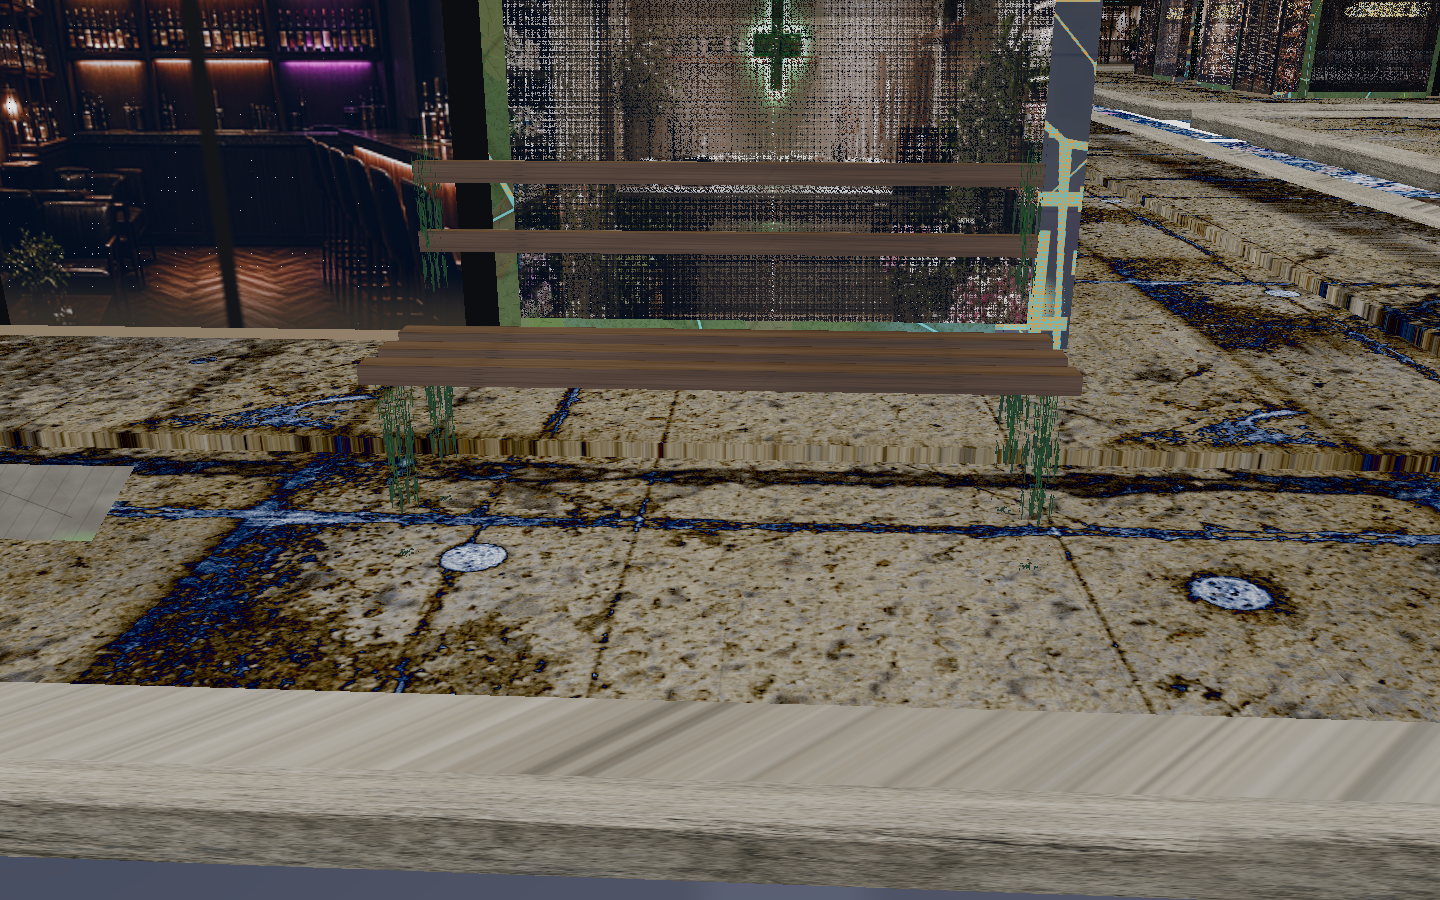
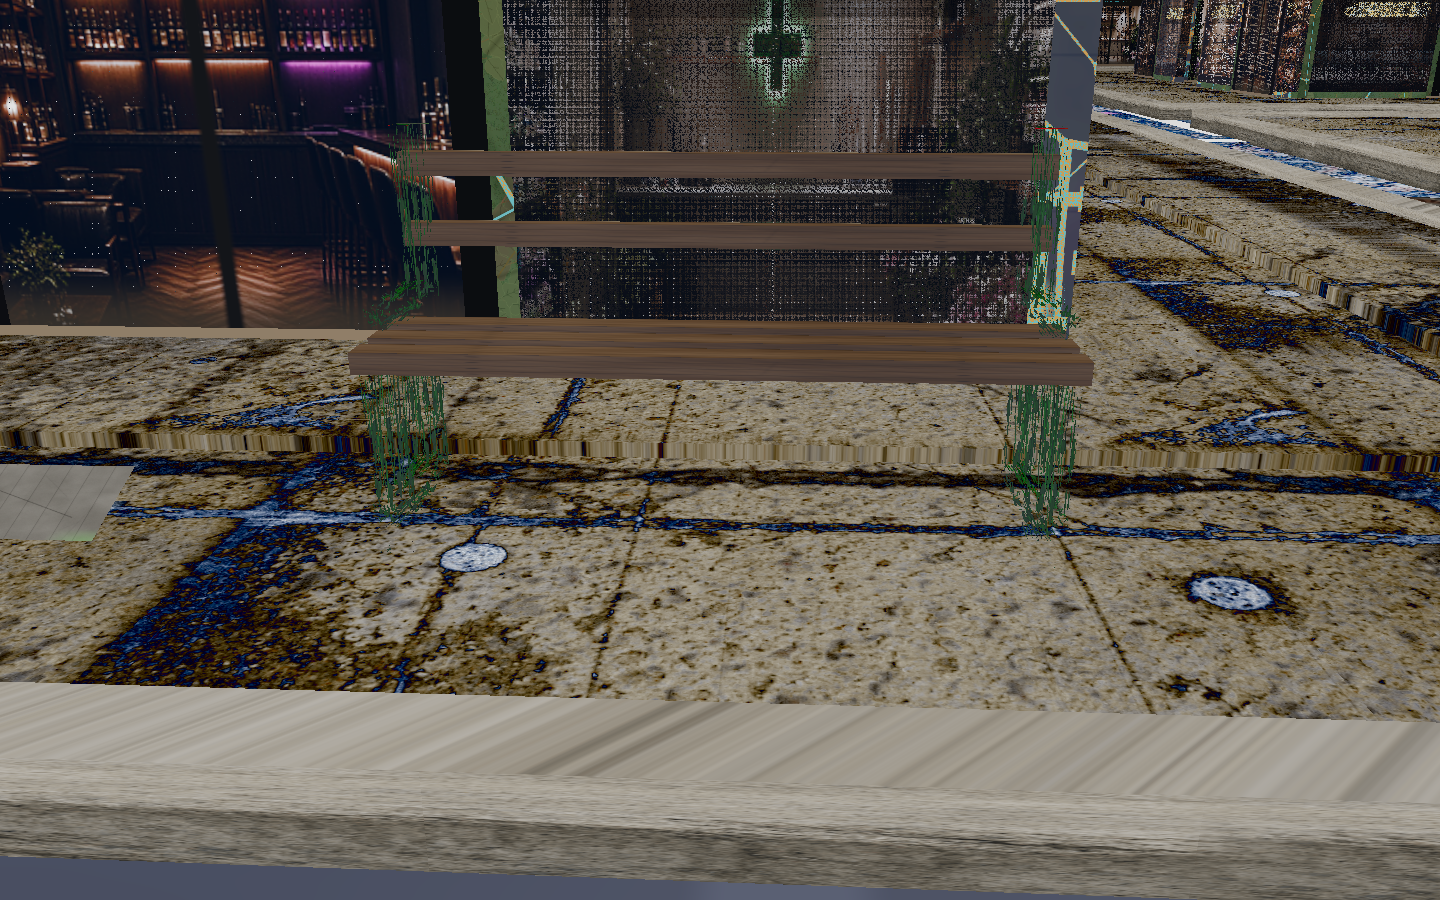
Harbor: readable cans, hydrants, and tree wells
The tree-pit timber trunk read as a stake between the can and the bench. It is a soil well now. Cans are galvanized bins with a lid and bail; hydrants carry barrel, iron caps, and a hard red atlas cell.

Changed region(s): [[0.2188, 0.0, 0.7812, 0.5911]]

diff --git a/noctuary/street-clutter.js b/noctuary/street-clutter.js
@@ -107,14 +107,43 @@ function geoGrate() {
   return g;
 }
 
+function ironTorus(radius, tube, y) {
+  const g = new THREE.TorusGeometry(radius, tube, 6, 16);
+  g.rotateX(Math.PI / 2);
+  g.translate(0, y, 0);
+  return stampAll(g, CELL.iron[0], CELL.iron[1]);
+}
+
 function geoCan() {
-  const body = new THREE.CylinderGeometry(0.095, 0.102, 0.32, 16);
-  body.translate(0, 0.16, 0);
-  stampCylinder(body, face("can"), face("lid"));
-  const lid = new THREE.CylinderGeometry(0.108, 0.108, 0.03, 16);
-  lid.translate(0, 0.335, 0);
+  const parts = [];
+  const body = new THREE.CylinderGeometry(0.104, 0.090, 0.27, 20);
+  body.translate(0, 0.155, 0);
+  stampCylinder(body, face("can"), face("iron"));
+  parts.push(body);
+  parts.push(ironTorus(0.092, 0.011, 0.028));
+  parts.push(ironTorus(0.108, 0.013, 0.292));
+  const lid = new THREE.CylinderGeometry(0.118, 0.118, 0.020, 20);
+  lid.translate(0, 0.318, 0);
   stampCylinder(lid, face("iron"), face("lid"));
-  return mergeGeometries([body, lid]);
+  parts.push(lid);
+  const dome = new THREE.SphereGeometry(0.095, 16, 8, 0, Math.PI * 2, 0, Math.PI / 2);
+  dome.scale(1, 0.42, 1);
+  dome.computeVertexNormals();
+  dome.translate(0, 0.328, 0);
+  stampAll(dome, CELL.lid[0], CELL.lid[1]);
+  parts.push(dome);
+  const bail = new THREE.TorusGeometry(0.026, 0.007, 6, 12, Math.PI);
+  bail.translate(0, 0.362, 0);
+  stampAll(bail, CELL.iron[0], CELL.iron[1]);
+  parts.push(bail);
+  for (const sign of [1, -1]) {
+    const lug = new THREE.TorusGeometry(0.018, 0.006, 5, 8, Math.PI);
+    stampAll(lug, CELL.iron[0], CELL.iron[1]);
+    lug.rotateZ(sign > 0 ? -Math.PI / 2 : Math.PI / 2);
+    lug.translate(sign * 0.096, 0.17, 0);
+    parts.push(lug);
+  }
+  return mergeGeometries(parts);
 }
 
 function geoDumpster() {
@@ -136,10 +165,18 @@ function geoDumpster() {
 }
 
 function geoBag() {
-  const g = new THREE.SphereGeometry(0.085, 12, 8);
-  g.scale(1.2, 0.7, 0.95);
-  g.translate(0, 0.055, 0);
-  return stampAll(g, CELL.bag[0], CELL.bag[1]);
+  const body = new THREE.SphereGeometry(0.068, 12, 8);
+  body.scale(1.15, 0.58, 0.88);
+  body.translate(0, 0.044, 0);
+  stampAll(body, CELL.bag[0], CELL.bag[1]);
+  const neck = new THREE.SphereGeometry(0.026, 8, 6);
+  neck.scale(0.62, 1.35, 0.62);
+  neck.translate(0, 0.086, 0);
+  stampAll(neck, CELL.bag[0], CELL.bag[1]);
+  const knot = new THREE.SphereGeometry(0.011, 6, 5);
+  knot.translate(0, 0.108, 0);
+  stampAll(knot, CELL.iron[0], CELL.iron[1]);
+  return mergeGeometries([body, neck, knot]);
 }
 
 function geoLitter() {
@@ -154,35 +191,65 @@ function geoCard() {
 
 function geoHydrant() {
   const parts = [];
-  const addCyl = (r0, r1, h, y, side, cap, rotZ, tx) => {
-    const g = new THREE.CylinderGeometry(r0, r1, h, 12);
-    if (rotZ) g.rotateZ(rotZ);
-    g.translate(tx || 0, y, 0);
-    stampCylinder(g, side, cap);
-    parts.push(g);
+  const pushUpright = (geo, y, side, cap) => {
+    stampCylinder(geo, side, cap);
+    geo.translate(0, y, 0);
+    parts.push(geo);
   };
-  addCyl(0.074, 0.082, 0.045, 0.022, face("hydrant"), face("iron"));
-  addCyl(0.052, 0.060, 0.16, 0.125, face("hydrant"), face("hydrant"));
-  addCyl(0.032, 0.056, 0.07, 0.24, face("hydrant"), face("iron"));
-  addCyl(0.016, 0.016, 0.028, 0.288, face("iron"), face("iron"));
-  addCyl(0.018, 0.022, 0.07, 0.15, face("hydrant"), face("iron"), Math.PI / 2, 0.07);
-  addCyl(0.018, 0.022, 0.07, 0.15, face("hydrant"), face("iron"), Math.PI / 2, -0.07);
+  pushUpright(new THREE.CylinderGeometry(0.098, 0.098, 0.026, 12), 0.013, face("iron"), face("iron"));
+  pushUpright(new THREE.CylinderGeometry(0.058, 0.062, 0.20, 14), 0.126, face("hydrant"), face("hydrant"));
+  const collar = new THREE.TorusGeometry(0.066, 0.011, 6, 16);
+  collar.rotateX(Math.PI / 2);
+  collar.translate(0, 0.168, 0);
+  stampAll(collar, CELL.hydrant[0], CELL.hydrant[1]);
+  parts.push(collar);
+  pushUpright(new THREE.CylinderGeometry(0.030, 0.066, 0.052, 12), 0.248, face("hydrant"), face("iron"));
+  const nut = new THREE.CylinderGeometry(0.020, 0.020, 0.026, 5);
+  stampCylinder(nut, face("iron"), face("iron"));
+  nut.translate(0, 0.286, 0);
+  parts.push(nut);
+
+  const nozzle = (axis, sign, radius, length, y) => {
+    const barrel = new THREE.CylinderGeometry(radius * 0.82, radius, length, 8);
+    stampCylinder(barrel, face("hydrant"), face("hydrant"));
+    const cap = new THREE.CylinderGeometry(radius * 1.22, radius * 1.22, 0.016, 6);
+    stampCylinder(cap, face("iron"), face("iron"));
+    if (axis === "x") {
+      barrel.rotateZ(Math.PI / 2);
+      cap.rotateZ(Math.PI / 2);
+      const base = 0.060 + length * 0.5;
+      barrel.translate(sign * base, y, 0);
+      cap.translate(sign * (base + length * 0.5 + 0.008), y, 0);
+    } else {
+      barrel.rotateX(Math.PI / 2);
+      cap.rotateX(Math.PI / 2);
+      const base = 0.060 + length * 0.5;
+      barrel.translate(0, y, sign * base);
+      cap.translate(0, y, sign * (base + length * 0.5 + 0.008));
+    }
+    parts.push(barrel, cap);
+  };
+  nozzle("x", 1, 0.028, 0.046, 0.150);
+  nozzle("x", -1, 0.028, 0.046, 0.150);
+  nozzle("z", 1, 0.034, 0.044, 0.142);
   return mergeGeometries(parts);
 }
 
 function geoBench() {
   const parts = [];
-  for (const x of [-0.26, 0.26]) {
-    for (const z of [-0.06, 0.06]) {
-      parts.push(partBox(0.022, 0.155, 0.022, x, 0.078, z, IRON));
+  for (const x of [-0.27, 0.27]) {
+    for (const z of [-0.052, 0.052]) {
+      parts.push(partBox(0.030, 0.16, 0.028, x, 0.08, z, IRON));
     }
-    parts.push(partBox(0.02, 0.18, 0.018, x, 0.24, -0.078, IRON));
+    parts.push(partBox(0.030, 0.022, 0.132, x, 0.036, 0, IRON));
+    parts.push(partBox(0.028, 0.20, 0.026, x, 0.24, -0.070, IRON));
+    parts.push(partBox(0.026, 0.018, 0.118, x, 0.198, -0.012, IRON));
   }
-  for (const z of [-0.035, 0.02, 0.07]) {
-    parts.push(partBox(0.56, 0.016, 0.026, 0, 0.162, z, WOOD));
+  for (const z of [-0.038, 0.012, 0.058]) {
+    parts.push(partBox(0.58, 0.018, 0.028, 0, 0.168, z, WOOD));
   }
-  for (const y of [0.24, 0.30]) {
-    parts.push(partBox(0.54, 0.018, 0.014, 0, y, -0.078, WOOD));
+  for (const y of [0.248, 0.308]) {
+    parts.push(partBox(0.56, 0.020, 0.016, 0, y, -0.070, WOOD));
   }
   return mergeGeometries(parts);
 }
@@ -198,26 +265,26 @@ function geoWeed() {
 
 function geoPit() {
   const parts = [];
-  const s = 0.30;
-  const t = 0.028;
-  parts.push(partBox(s, 0.045, t, 0, 0.022, s * 0.5, CONC));
-  parts.push(partBox(s, 0.045, t, 0, 0.022, -s * 0.5, CONC));
-  parts.push(partBox(t, 0.045, s - t, s * 0.5, 0.022, 0, CONC));
-  parts.push(partBox(t, 0.045, s - t, -s * 0.5, 0.022, 0, CONC));
-  const soil = new THREE.PlaneGeometry(s - 0.05, s - 0.05);
+  const s = 0.32;
+  const t = 0.045;
+  const h = 0.055;
+  const outer = (s - t) * 0.5;
+  parts.push(partBox(s, h, t, 0, h * 0.5, outer, CONC));
+  parts.push(partBox(s, h, t, 0, h * 0.5, -outer, CONC));
+  parts.push(partBox(t, h, s - t * 2, outer, h * 0.5, 0, CONC));
+  parts.push(partBox(t, h, s - t * 2, -outer, h * 0.5, 0, CONC));
+  const soil = new THREE.PlaneGeometry(s - t * 2 - 0.012, s - t * 2 - 0.012);
   soil.rotateX(-Math.PI / 2);
-  soil.translate(0, 0.016, 0);
+  soil.translate(0, 0.012, 0);
   stampAll(soil, CELL.soil[0], CELL.soil[1]);
   parts.push(soil);
-  const trunk = new THREE.CylinderGeometry(0.026, 0.034, 0.70, 8);
-  trunk.translate(0, 0.37, 0);
-  stampCylinder(trunk, face("timber"), face("timber"));
-  parts.push(trunk);
   for (let i = 0; i < 3; i++) {
-    const leaf = new THREE.PlaneGeometry(0.26, 0.20);
-    leaf.translate(0, 0.74, 0);
+    const leaf = new THREE.PlaneGeometry(0.09, 0.08);
+    leaf.translate(0, 0.04, 0);
     stampAll(leaf, CELL.weeds[0], CELL.weeds[1]);
     leaf.rotateY((i * Math.PI) / 3);
+    const ang = i * 2.15;
+    leaf.translate(Math.cos(ang) * 0.028, 0.018, Math.sin(ang) * 0.028);
     parts.push(leaf);
   }
   return mergeGeometries(parts);
@@ -225,21 +292,23 @@ function geoPit() {
 
 function geoPlanter() {
   const parts = [
-    partBox(0.24, 0.15, 0.24, 0, 0.075, 0, CONC),
+    partBox(0.20, 0.12, 0.20, 0, 0.06, 0, CONC),
+    partBox(0.26, 0.028, 0.26, 0, 0.134, 0, CONC),
   ];
-  const soil = new THREE.PlaneGeometry(0.16, 0.16);
+  const soil = new THREE.PlaneGeometry(0.15, 0.15);
   soil.rotateX(-Math.PI / 2);
-  soil.translate(0, 0.142, 0);
+  soil.translate(0, 0.122, 0);
   stampAll(soil, CELL.soil[0], CELL.soil[1]);
   parts.push(soil);
-  for (const x of [-0.04, 0.045]) {
-    const w = new THREE.PlaneGeometry(0.09, 0.13);
-    w.translate(x, 0.20, 0);
-    stampAll(w, CELL.weeds[0], CELL.weeds[1]);
-    const w2 = w.clone();
-    w2.rotateY(Math.PI / 2);
-    parts.push(w, w2);
-  }
+  const clump = new THREE.PlaneGeometry(0.09, 0.10);
+  clump.translate(0, 0.05, 0);
+  stampAll(clump, CELL.weeds[0], CELL.weeds[1]);
+  clump.translate(0, 0.142, 0);
+  const b = clump.clone();
+  b.rotateY(Math.PI / 2);
+  const c = clump.clone();
+  c.rotateY(Math.PI / 5);
+  parts.push(clump, b, c);
   return mergeGeometries(parts);
 }
 

diff --git a/harbor.html b/harbor.html
@@ -7177,7 +7177,7 @@ streetClutter = mountStreetClutter({
   world: physWorld,
   CANNON,
   enabled: streetClutterOn,
-  atlasUrl: new URL('street-clutter-atlas.png' + (location.protocol === 'file:' ? '' : '?v=clutter1'), atlasBase).href,
+  atlasUrl: new URL('street-clutter-atlas.png' + (location.protocol === 'file:' ? '' : '?v=clutter2'), atlasBase).href,
   anchors: {
     streetW: STREET_W,
     sidewalkW: SIDEWALK_W,

diff --git a/06-intermediate-assets/gen-street-clutter-atlas.py b/06-intermediate-assets/gen-street-clutter-atlas.py
@@ -243,16 +243,27 @@ def cell_throat(rng):
 
 
 def cell_can(rng):
-    rib = fbm(N, rng, 4, 10)
-    arr = rgb((0.10, 0.12, 0.13), (rib - 0.5) * 0.08)
+    """Galvanized bin wall. Vertical beads, hoops, bottom grime. QUAY is a stencil, not the form."""
     y, x = np.mgrid[0:N, 0:N]
-    ridges = np.sin(x / N * math.pi * 46) > 0.55
-    arr[ridges] *= 1.18
-    grime = y > N * 0.78
-    arr[grime] *= 0.82
-    arr = stain(arr, rng, (0.18, 0.14, 0.09), 4, 0.4)
-    img = to_image(finish(arr, rng, 12))
-    img = draw_mark(img, "QUAY", (N * 0.18, N * 0.38), 78, (214, 206, 186, 200), wear=0.2)
+    n = fbm(N, rng, 4, 14)
+    arr = rgb((0.68, 0.70, 0.72), (n - 0.5) * 0.05)
+    period = N / 16.0
+    phase = (x % period) / period
+    groove = phase < 0.16
+    arr[groove] *= 0.32
+    bead = (phase >= 0.16) & (phase < 0.30)
+    arr[bead] = np.minimum(1.0, arr[bead] * 1.08 + 0.10)
+    for yc, thick in ((0.07, 0.028), (0.20, 0.016), (0.80, 0.018), (0.93, 0.032)):
+        band = np.abs(y / N - yc) < thick
+        arr[band] = arr[band] * 0.55 + np.array((0.28, 0.29, 0.31)) * 0.45
+    grime = np.clip((y / N - 0.70) / 0.30, 0, 1)
+    arr *= (1.0 - grime[..., None] * 0.62)
+    arr[:, :, 0] += grime * 0.08
+    dent = np.exp(-(((x - N * 0.38) / 36.0) ** 2 + ((y - N * 0.48) / 22.0) ** 2))
+    arr *= (1.0 - dent[:, :, None] * 0.28)
+    arr = stain(arr, rng, (0.32, 0.20, 0.10), 2, 0.18)
+    img = to_image(np.clip(arr + grain(N, rng, 0.02)[:, :, None], 0, 1))
+    img = draw_mark(img, "QUAY", (N * 0.30, N * 0.36), 46, (36, 40, 44, 220), wear=0.18)
     return img
 
 
@@ -272,16 +283,22 @@ def cell_dumpster(rng):
 
 
 def cell_lid(rng):
+    """Spun metal lid: concentric rings, dark lip, a bar handle."""
     y, x = np.mgrid[0:N, 0:N]
-    cx = cy = (N - 1) / 2
-    r = np.hypot(x - cx, y - cy) / (N * 0.48)
-    n = fbm(N, rng, 4, 8)
-    arr = rgb((0.14, 0.16, 0.17), (n - 0.5) * 0.06)
-    rings = np.sin(r * 28) > 0.4
-    arr[rings] *= 1.12
-    arr[r > 1] *= 0.4
-    arr = stain(arr, rng, (0.22, 0.16, 0.10), 2, 0.25)
-    return to_image(finish(arr, rng, 4))
+    cx = cy = (N - 1) / 2.0
+    r = np.hypot(x - cx, y - cy)
+    n = fbm(N, rng, 3, 10)
+    arr = rgb((0.62, 0.64, 0.66), (n - 0.5) * 0.04)
+    rings = np.sin(r * 0.42) > 0.15
+    arr[rings] *= 0.78
+    arr[r > N * 0.40] *= 0.48
+    arr[r < N * 0.07] *= 0.62
+    img = to_image(np.clip(arr, 0, 1))
+    draw = ImageDraw.Draw(img)
+    draw.rounded_rectangle((N * 0.30, N * 0.455, N * 0.70, N * 0.545), radius=10, fill=(78, 82, 86, 255))
+    draw.ellipse((N * 0.26, N * 0.42, N * 0.36, N * 0.58), fill=(36, 38, 42, 255))
+    draw.ellipse((N * 0.64, N * 0.42, N * 0.74, N * 0.58), fill=(36, 38, 42, 255))
+    return img
 
 
 def cell_cardboard(rng):
@@ -453,24 +470,28 @@ def cell_weeds(rng):
 
 
 def cell_hydrant(rng):
-    n = fbm(N, rng, 5, 6)
-    arr = rgb((0.42, 0.12, 0.10), (n - 0.5) * 0.08)
+    """Hard cast-iron red. Chips are edges, not a soft noise wash. SIGNAL sits on the collar band."""
     y, x = np.mgrid[0:N, 0:N]
-    # vertical wrap highlight
-    spec = np.exp(-((x / N - 0.32) ** 2) / 0.02)
-    arr += spec[:, :, None] * np.array((0.18, 0.06, 0.04))
-    # chipped paint to iron
-    chip = n < 0.28
-    arr[chip] = rgb((0.22, 0.20, 0.18), 0)[chip]
-    band = (y > N * 0.40) & (y < N * 0.56)
-    arr[band] = rgb((0.62, 0.50, 0.22), (n - 0.5) * 0.05)[band]
-    arr[band & chip] *= 0.75
-    # bolt row
-    bolts = (np.abs(y - N * 0.72) < N * 0.02) & ((x % 80) < 14) & (x > 30) & (x < N - 30)
-    arr[bolts] = (0.55, 0.52, 0.46)
-    arr = stain(arr, rng, (0.18, 0.10, 0.08), 3, 0.25)
-    img = to_image(finish(np.clip(arr, 0, 1), rng, 8))
-    img = draw_mark(img, "SIGNAL", (N * 0.10, N * 0.42), 54, (40, 28, 12, 230), wear=0.14)
+    n = fbm(N, rng, 4, 7)
+    arr = np.zeros((N, N, 3), np.float32)
+    arr[:] = (0.82, 0.10, 0.07)
+    chip = n < 0.20
+    arr[chip] = (0.15, 0.14, 0.13)
+    scratch = (np.abs(np.sin(x * 0.07 + y * 0.004)) > 0.992)
+    arr[scratch] = (0.18, 0.16, 0.14)
+    spec = np.exp(-((x / N - 0.30) ** 2) / 0.008)
+    arr += spec[:, :, None] * np.array((0.28, 0.06, 0.03))
+    band = (y > N * 0.40) & (y < N * 0.57)
+    arr[band] = (0.86, 0.70, 0.30)
+    arr[band & chip] = (0.20, 0.16, 0.11)
+    edge = (np.abs(y - N * 0.40) < 4) | (np.abs(y - N * 0.57) < 4)
+    arr[edge] *= 0.35
+    # bolt heads under the collar
+    bolts = (np.abs(y - N * 0.68) < N * 0.018) & (((x / 64).astype(int) % 2) == 0) & (x > 40) & (x < N - 40)
+    bolts &= ((x % 64) < 16)
+    arr[bolts] = (0.72, 0.70, 0.64)
+    img = to_image(np.clip(arr, 0, 1))
+    img = draw_mark(img, "SIGNAL", (N * 0.14, N * 0.43), 44, (48, 30, 8, 245), wear=0.06)
     return img
 
 

diff --git a/noctuary-drills/STREET-CLUTTER.md b/noctuary-drills/STREET-CLUTTER.md
@@ -23,11 +23,11 @@ Same cell grammar as the street sheet and the freight graffiti band: one shared 
 ```
 row0  manhole | can metal | bag plastic | tree-pit soil
 row1  inlet grate | dumpster panel | litter paper | planter concrete
-row2  gutter grate | bin lid | bench timber | bench iron
-row3  inlet throat | cardboard | weeds (alpha) | hydrant paint
+row2  gutter grate | bin lid | bench timber | weeds (alpha)
+row3  inlet throat | cardboard | bench iron | hydrant paint
 ```
 
-Weeds and young-tree crowns discard on alpha. Everything else is opaque. One shader, night fog at the district density, so the props sit in the same air as the asphalt.
+Weed cards discard on alpha. Everything else is opaque. One shader, night fog at the district density, so the props sit in the same air as the asphalt.
 
 Prop-wear `quay-crate` / `quay-iron` sheets are not edited. The quay deck-plate atlas is not edited. This sheet is a new file.
 
@@ -37,13 +37,19 @@ Taste is fenestra, not a landfill. About fifty pieces on the 5×4 district:
 
 - storm-drain family: curb inlets, gutter grates, manhole covers, dark inlet throats
 - refuse: a few cans, two hinterland dumpsters, bags, flat litter, cardboard
-- hydrants at the curb
-- benches on the quay-facing walk and the east promenade
-- tree pits with a short trunk and weed crown, plus curb weeds and quay planters
+- hydrants at the curb: iron flange, red barrel, side caps, a street-facing steamer cap, bonnet, pentagon nut
+- benches on the quay-facing walk and the east promenade, with iron end frames and timber slats
+- tree pits as a concrete well (raised curb, dark soil, short weeds in the opening), plus curb weeds and quay planters with a lip
 
 The hero cluster is the north walk of the center block (block column 2, quay row), so a street-level frame can read a pit, a hydrant, a can, a bench, a grate, and a cover without touring the whole grid.
 
-Flat covers, grates, litter, and cardboard are visual. Cans, dumpsters, hydrants, benches, planters, and pit trunks get a static box so a crate does not ghost through them. Those bodies are not in the grab/toss list and do not join the wind or spring hooks. Quay bodies sit a centimeter above the deck so they do not fight the promenade slab.
+### Readability
+
+The ambiguous shape in the first stills was the tree-pit trunk. It was a timber cylinder on the bench-wood cell, topped with flat weed cards, so it read as a stake or a broken bench end between the can and the bench. That pole and crown are gone. The pit is only the well.
+
+Cans are a tapered galvanized bin: bead-and-hoop metal on the can cell, a rolled rim, an overhanging lid (spun-metal cell), a low dome, a bail, and two side lugs. Hydrant paint is a hard red with chips, a brass collar, bolt heads, and a small SIGNAL stencil — the silhouette is the barrel and the iron caps, not the sticker. Bags elsewhere are a tied sack. The hero cluster no longer parks a bag against the can.
+
+Flat covers, grates, litter, and cardboard are visual. Cans, dumpsters, hydrants, benches, planters, and the tree-well curb get a static box so a crate does not ghost through them. Those bodies are not in the grab/toss list and do not join the wind or spring hooks. Quay bodies sit a centimeter above the deck so they do not fight the promenade slab.
 
 ### Widths
 
